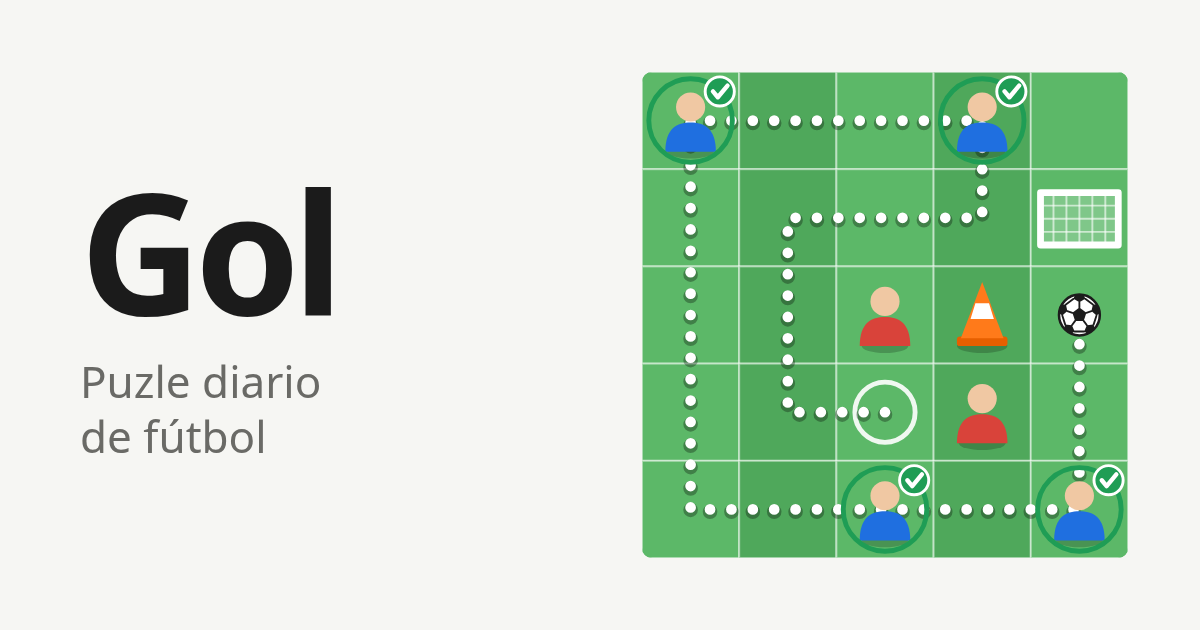
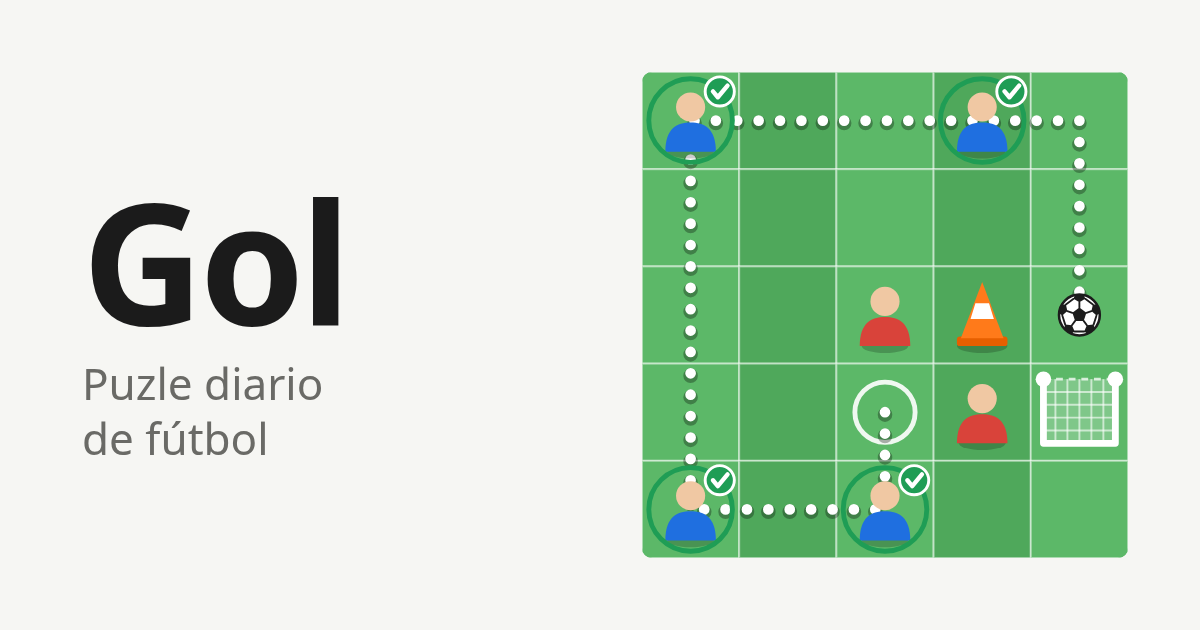
preview de link con el arco nuevo

diff --git a/CLAUDE.md b/CLAUDE.md
@@ -4,7 +4,7 @@ Juego web de un puzle por día: llevar la pelota al arco pasando por todos los c
 
 - Publicado en https://mcerdeira.github.io/daily-game/ (GitHub Pages, repo `mcerdeira/daily-game`, rama `main`).
 - Todo el juego vive en `index.html`: HTML, CSS y JS inline, sin dependencias, sin build, sin tests.
-- `og.png` (1200×630) es la imagen de preview de link. Es estática, no hay script que la genere.
+- `og.png` (1200×630) es la imagen de preview de link. Es estática, no hay script que la genere. La actual salió de una captura con Chrome sin interfaz, dibujando un tablero armado a mano con las funciones del juego: la pelota está en la casilla de arriba del arco, que es la única jugada válida para mostrar.
 - `manifest.webmanifest` + `icon-192.png` / `icon-512.png` hacen que Chrome en Android ofrezca "Instalar". No hay service worker a propósito: la app instalada no funciona sin conexión y no hay caché que pueda servir un `index.html` viejo. No agregarlo sin avisar.
 
 ## Cómo probar
